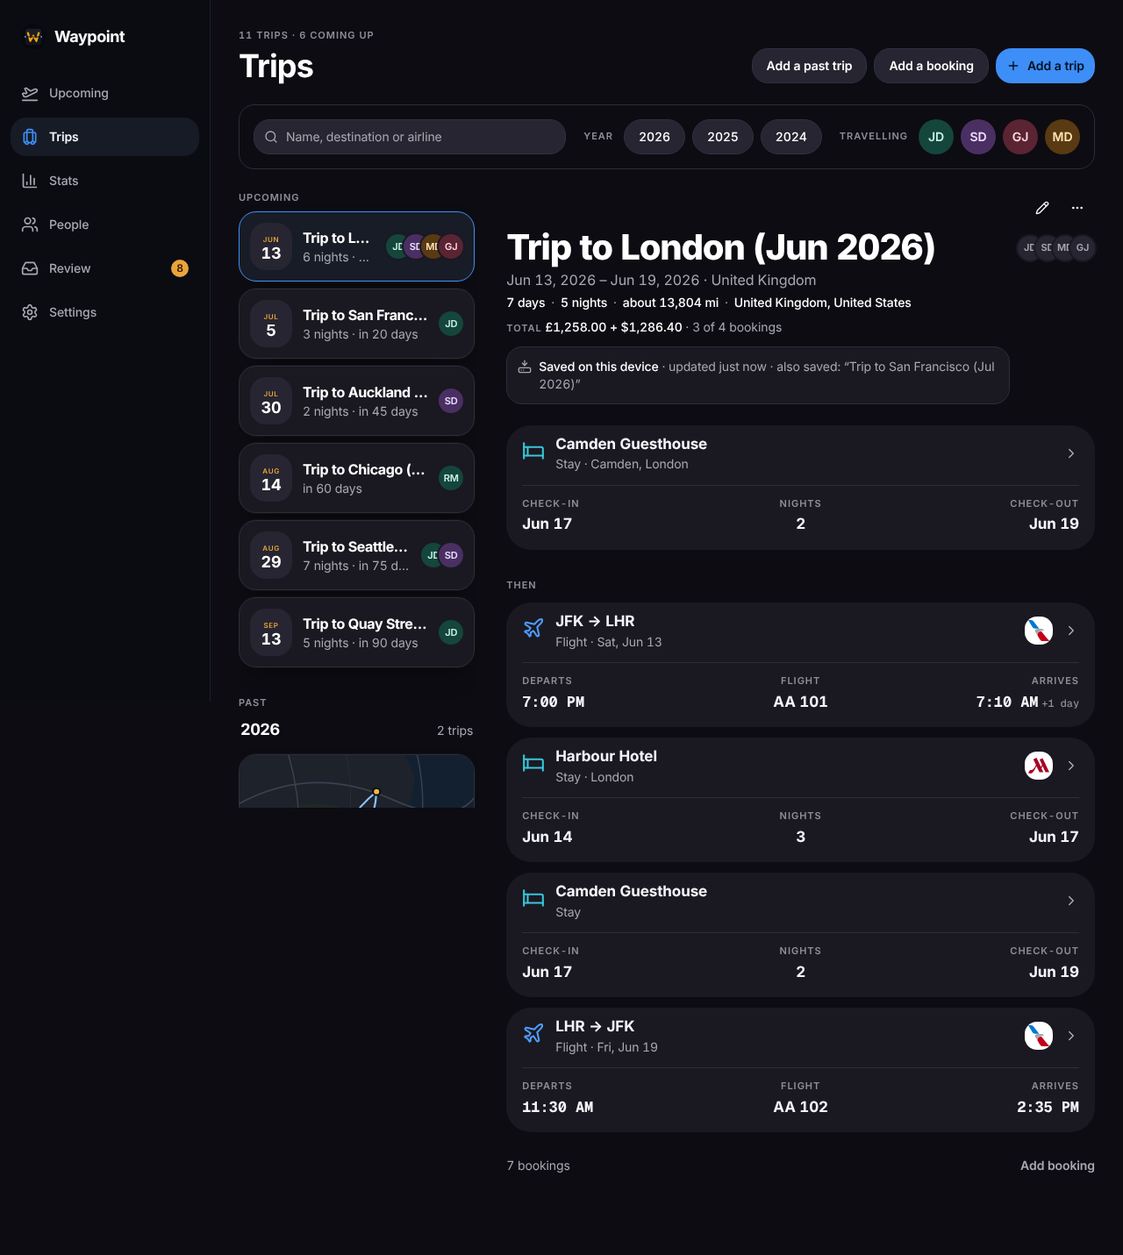
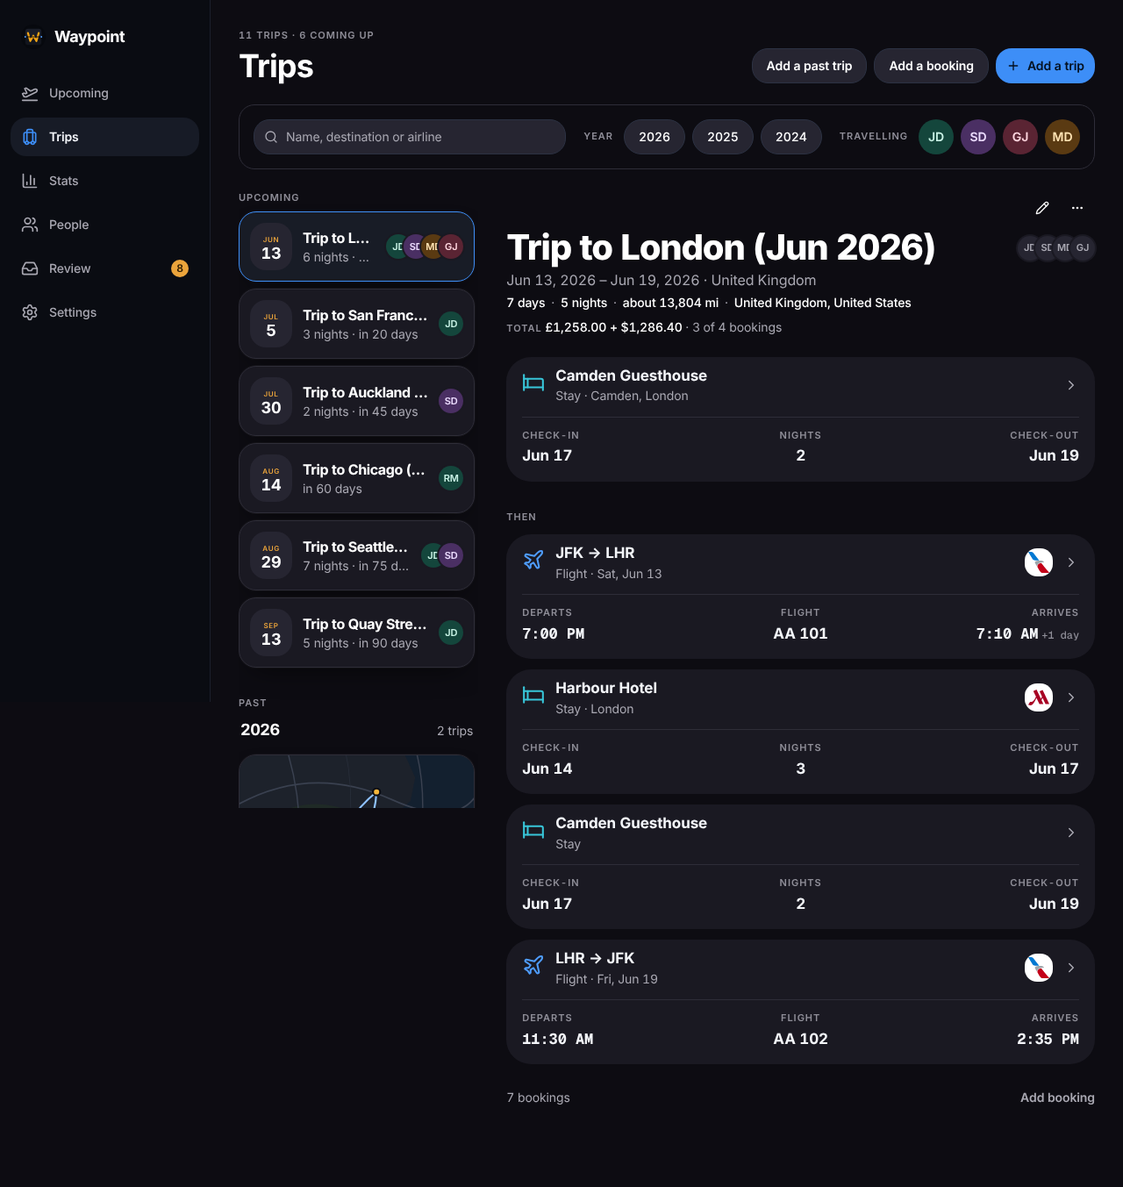
Remove the offline status card from Upcoming and trip pages (#922)

diff --git a/frontend/src/pages/Trip.offline.svelte.test.ts b/frontend/src/pages/Trip.offline.svelte.test.ts
@@ -56,7 +56,6 @@ describe("Trip: the saved offline copy", () => {
     Object.assign(offline, { checked: true, setUp: true, hasCopy: true, trips: [{ id: 9, name: "Next cruise" }] });
     render(TripPage);
     await screen.findByRole("heading", { name: "Past journey" });
-    expect(screen.queryByTestId("offline-status")).not.toBeInTheDocument();
     expect(screen.queryByRole("dialog", { name: "Keep this trip available offline" })).not.toBeInTheDocument();
     expect(device.writes).toEqual([]);
   });
@@ -94,31 +93,6 @@ describe("Trip: the saved offline copy", () => {
     expect(device.calls).toEqual(before);
     expect(screen.queryByRole("dialog")).not.toBeInTheDocument();
     expect(device.appears("Springfield")).toBe(false);
-  });
-
-  it("says in the header that this trip is saved on the device, and when", async () => {
-    await setUp();
-    render(TripPage);
-    await screen.findByRole("heading", { name: "Trip to Springfield" });
-    expect(await screen.findByText(/updated just now/)).toBeInTheDocument();
-    expect(screen.getByTestId("offline-status-line")).toHaveTextContent("Saved on this device · updated just now");
-  });
-
-  it("says in the header when the save failed", async () => {
-    await setUp();
-    vi.spyOn(console, "error").mockImplementation(() => {});
-    vi.mocked(api).mockImplementation(async (path) => {
-      if (path === "/api/people") return { people: [] };
-      if (path === "/api/loyalty") return { loyalty: [], programs: {} };
-    if (path === "/api/distance-unit") return { distance_unit: "mi" };
-    if (String(path).endsWith("/summary")) throw new Error("no summary");
-      if (path === "/api/offline") throw new Error("Server error");
-      return held;
-    });
-    render(TripPage);
-    await screen.findByRole("heading", { name: "Trip to Springfield" });
-    expect(await screen.findByText("Couldn’t save the trips on this device.")).toBeInTheDocument();
-    expect(screen.getByRole("button", { name: "Try again" })).toBeInTheDocument();
   });
 
   it("neither asks nor saves on a device that can't do it", async () => {
@@ -206,20 +180,6 @@ describe("Trip: the saved offline copy", () => {
     expect(screen.queryByText("QX7R2M")).not.toBeInTheDocument();
   });
 
-  it("shows which trips are saved, in the header, when several are", async () => {
-    await setUp();
-    vi.mocked(api).mockImplementation(async (path) => {
-      if (path === "/api/people") return { people: [] };
-      if (path === "/api/loyalty") return { loyalty: [], programs: {} };
-    if (path === "/api/distance-unit") return { distance_unit: "mi" };
-    if (String(path).endsWith("/summary")) throw new Error("no summary");
-      if (path === "/api/offline") return { trips: [{ trip: held, messages: [] }, { trip: { ...held, id: 2, name: "Trip to Paris" }, messages: [] }] };
-      return held;
-    });
-    render(TripPage);
-    await screen.findByRole("heading", { name: "Trip to Springfield" });
-    expect(await screen.findByText(/also saved: “Trip to Paris”/)).toBeInTheDocument();
-  });
 });
 
 describe("Trip: a warm iPhone app that lost its connection", () => {
@@ -236,7 +196,7 @@ describe("Trip: a warm iPhone app that lost its connection", () => {
     arrival.target = { segmentId: 5, tripId: 1, at: Date.now() };
     vi.mocked(api).mockRejectedValue(new TypeError("Failed to fetch"));
     render(TripPage);
-    expect(await screen.findByTestId("offline-banner")).toBeInTheDocument();
+    expect(await screen.findByRole("heading", { name: "Trip to Denver" })).toBeInTheDocument();
     expect(screen.queryByText("Failed to fetch")).not.toBeInTheDocument();
     expect(await screen.findByRole("dialog", { name: "QR code" })).toBeInTheDocument();
     expect(arrival.target).toBeNull();
@@ -257,30 +217,30 @@ describe("Trip: a warm iPhone app that lost its connection", () => {
 
     it("clears it at the deadline, without any other event", async () => {
       open();
-      expect(await screen.findByTestId("offline-banner")).toBeInTheDocument();
+      expect(await screen.findByRole("heading", { name: "Trip to Denver" })).toBeInTheDocument();
       expect(screen.getByRole("heading", { name: "Trip to Denver" })).toBeInTheDocument();
       await vi.advanceTimersByTimeAsync(deadline - Date.now() + 1);
-      await vi.waitFor(() => expect(screen.queryByTestId("offline-banner")).not.toBeInTheDocument());
+      await vi.waitFor(() => expect(screen.queryByRole("heading", { name: "Trip to Denver" })).not.toBeInTheDocument());
       expect(screen.queryByRole("heading", { name: "Trip to Denver" })).not.toBeInTheDocument();
       expect(await screen.findByText("Failed to fetch")).toBeInTheDocument();
     });
 
     it("clears it when the app comes back to the front after the deadline", async () => {
       open();
-      expect(await screen.findByTestId("offline-banner")).toBeInTheDocument();
+      expect(await screen.findByRole("heading", { name: "Trip to Denver" })).toBeInTheDocument();
       vi.setSystemTime(deadline + 60_000);
       document.dispatchEvent(new Event("visibilitychange"));
-      await vi.waitFor(() => expect(screen.queryByTestId("offline-banner")).not.toBeInTheDocument());
+      await vi.waitFor(() => expect(screen.queryByRole("heading", { name: "Trip to Denver" })).not.toBeInTheDocument());
       expect(screen.queryByRole("heading", { name: "Trip to Denver" })).not.toBeInTheDocument();
     });
 
     it("keeps it while it is still within its retention", async () => {
       open();
-      expect(await screen.findByTestId("offline-banner")).toBeInTheDocument();
+      expect(await screen.findByRole("heading", { name: "Trip to Denver" })).toBeInTheDocument();
       vi.setSystemTime(deadline - 60_000);
       window.dispatchEvent(new Event("focus"));
       await vi.advanceTimersByTimeAsync(1_000);
-      expect(screen.getByTestId("offline-banner")).toBeInTheDocument();
+      expect(screen.getByRole("heading", { name: "Trip to Denver" })).toBeInTheDocument();
     });
 
     it("does not show a copy the phone handed over after its deadline", async () => {
@@ -290,7 +250,7 @@ describe("Trip: a warm iPhone app that lost its connection", () => {
       vi.mocked(api).mockRejectedValue(new TypeError("Failed to fetch"));
       render(TripPage);
       expect(await screen.findByText("Failed to fetch")).toBeInTheDocument();
-      expect(screen.queryByTestId("offline-banner")).not.toBeInTheDocument();
+      expect(screen.queryByRole("heading", { name: "Trip to Denver" })).not.toBeInTheDocument();
     });
   });
 

diff --git a/frontend/src/pages/Upcoming.svelte b/frontend/src/pages/Upcoming.svelte
@@ -21,14 +21,13 @@
   import { flightCardView, flightsToday, nextFlightShown } from "$lib/flightcard";
   import { isMobile } from "$lib/platform";
   import { flightStatus, loadFlightStatus, statusFor, followFlightStatus } from "$lib/flightstatus.svelte";
-  import OfflineStatus from "$lib/components/OfflineStatus.svelte";
+  import OfflinePill from "$lib/components/OfflinePill.svelte";
   import PassCard from "$lib/components/PassCard.svelte";
   import { dateTile, laterLine, laterTrips, startsIn } from "$lib/side-column";
   import { showsCode } from "$lib/gate-code";
   import RowShowCode from "$lib/components/RowShowCode.svelte";
   import { type Day, type DayItem, appWord, bookingCards, tripTravellers, vendorLink, dayIn, dayLabel, END_WORD, START_WORD, endAt, featuredTrip, flightEvidence, headline, nextUp, nightsLabel, rangeLabel, startAt, subline, timesDiffer, todayLabel, tripDays, untimed, upcomingTitle, viewerZone } from "$lib/trips";
   import KindTile from "$lib/components/KindTile.svelte";
-  import { offlineWorking } from "$lib/offline.svelte";
   import { viewport } from "$lib/phone.svelte";
   import { ConfirmDialog } from "$lib/components/ui/confirm-dialog";
   import { Sheet } from "$lib/components/ui/sheet";
@@ -44,7 +43,6 @@
   let asking = $state(false);
   let mail = $state<MailboxList | null>(null);
   let connecting = $state(false);
-  let offlineOpen = $state(false);
   let detail = $state<{ segment: Segment; bookings: Segment[] } | null>(null);
   let heroDetailOpen = $state(false);
   let heroOpener: HTMLElement | null = null;
@@ -234,7 +232,7 @@
   </div>
   {#if trips && trips.length > 0}
     <div class="flex shrink-0 items-center gap-2">
-      <OfflineStatus pill open={offlineOpen} ontoggle={() => (offlineOpen = !offlineOpen)} />
+      <OfflinePill />
       <Button href="#trips?add=booking" variant="secondary" class="phone:size-11 phone:p-0"><Plus aria-hidden="true" /><span class="phone:sr-only">Add a booking</span></Button>
     </div>
   {/if}
@@ -301,7 +299,6 @@
   <div class="@container">
   <div class={`grid gap-x-8 gap-y-2 ${homeFlight ? "@[900px]:grid-cols-2 @[900px]:items-start" : ""}`} data-columns={homeFlight ? "two" : "one"}>
   <div class="min-w-0">
-  {#if !offlineWorking() || offlineOpen}<div class="-mt-1 mb-6"><OfflineStatus /></div>{/if}
   {#if next}
     {@const s = next.segment}
     {@const proof = s.kind === "flight" && flightStatus.list?.enabled ? flightEvidence(statusFor(s.id), now, typeof navigator === "undefined" || navigator.onLine !== false) : "scheduled"}

diff --git a/frontend/src/lib/components/OfflinePill.svelte.test.ts b/frontend/src/lib/components/OfflinePill.svelte.test.ts
@@ -1,0 +1,39 @@
+// @vitest-environment jsdom
+import { render, screen } from "@testing-library/svelte";
+import { beforeEach, describe, expect, it, vi } from "vitest";
+
+vi.mock("$lib/offline.svelte", async (importOriginal) => ({ ...(await importOriginal<typeof import("$lib/offline.svelte")>()), refreshOffline: vi.fn() }));
+
+import { offline, refreshOffline } from "$lib/offline.svelte";
+import OfflinePill from "./OfflinePill.svelte";
+
+const working = { checked: true, setUp: true, hasCopy: true, savedAt: Date.now(), off: false, damaged: false, supported: true, reason: "", declined: false, failed: false, syncing: false, oldApp: false, trips: [{ id: 7, name: "Trip to Springfield" }] };
+beforeEach(() => { Object.assign(offline, working); vi.mocked(refreshOffline).mockReset(); });
+
+describe("OfflinePill", () => {
+  it("shows Saved for offline, linking to the offline settings, while saving is working", () => {
+    render(OfflinePill);
+    expect(screen.getByRole("link", { name: "Saved for offline" })).toHaveAttribute("href", "#settings/offline");
+    expect(refreshOffline).not.toHaveBeenCalled();
+  });
+
+  it.each([
+    ["offline saving is off", { off: true }],
+    ["the last save failed", { failed: true }],
+    ["the saved copy can't be read", { damaged: true }],
+    ["offline access isn't set up", { setUp: false }],
+    ["nothing is saved", { hasCopy: false, savedAt: null }],
+    ["the device can't save", { supported: false }],
+  ])("shows nothing when %s", (_why, state) => {
+    Object.assign(offline, state);
+    render(OfflinePill);
+    expect(screen.queryByTestId("offline-pill")).not.toBeInTheDocument();
+  });
+
+  it("checks the device once on its own when nothing has checked yet, so the pill can appear", () => {
+    offline.checked = false;
+    render(OfflinePill);
+    expect(refreshOffline).toHaveBeenCalledTimes(1);
+    expect(screen.queryByTestId("offline-pill")).not.toBeInTheDocument();
+  });
+});

diff --git a/frontend/src/pages/Upcoming.svelte.test.ts b/frontend/src/pages/Upcoming.svelte.test.ts
@@ -839,20 +839,18 @@ describe("Upcoming header, review banner and timeline", () => {
     expect(screen.getByText("Dec 30, 2026 – Jan 2, 2027 · 3 nights")).toBeInTheDocument();
   });
 
-  it("shows the Saved for offline pill only when offline saving is working", async () => {
+  it("shows the Saved for offline pill, linking to the offline settings, only when offline saving is working", async () => {
     Object.assign(offline, { setUp: true, hasCopy: true, savedAt: Date.now(), trips: [{ id: 1, name: "Trip" }] });
     serve([london]);
     const { unmount } = render(Upcoming);
-    const pill = await screen.findByRole("button", { name: "Saved for offline" });
-    expect(screen.queryByTestId("offline-status")).toBeNull();
-    await userEvent.setup({ advanceTimers: vi.advanceTimersByTime }).click(pill);
-    expect(screen.getByTestId("offline-status")).toBeInTheDocument();
+    expect(await screen.findByRole("link", { name: "Saved for offline" })).toHaveAttribute("href", "#settings/offline");
+    expect(screen.queryByText(/Saved on this device/)).toBeNull();
     unmount();
     Object.assign(offline, { failed: true });
     render(Upcoming);
     await screen.findByRole("heading", { name: "JFK → LHR" });
-    expect(screen.queryByRole("button", { name: "Saved for offline" })).toBeNull();
-    expect(screen.getByTestId("offline-status")).toBeInTheDocument();
+    expect(screen.queryByRole("link", { name: "Saved for offline" })).toBeNull();
+    expect(screen.queryByText(/Couldn’t save the trips on this device/)).toBeNull();
   });
 });
 

diff --git a/frontend/src/lib/components/OfflineTrip.svelte b/frontend/src/lib/components/OfflineTrip.svelte
@@ -9,9 +9,8 @@
   import PlaceTime from "$lib/components/PlaceTime.svelte";
   import { Button } from "$lib/components/ui/button";
   import { countNote, formatMoney, formatTotals } from "$lib/money";
-  import { ago, type SavedCopy } from "$lib/offline";
+  import type { SavedCopy } from "$lib/offline";
   import { bookingCards, dateLabel, dayLabel, headline, showBookingTravellers, showTripTravellers, tripTravellers } from "$lib/trips";
-  import WifiOff from "@lucide/svelte/icons/wifi-off";
 
   let { copy }: { copy: SavedCopy } = $props();
 
@@ -31,14 +30,6 @@
   const emailsOf = (s: Segment) => copy.messages.find((m) => m.segment_id === s.id)?.emails ?? [];
   const kindName = (s: Segment) => ({ flight: "Flight", hotel: "Hotel", car: "Car", train: "Train", cruise: "Cruise", parking: "Parking", visit: "Past trip" })[s.kind];
 </script>
-
-<div class="mb-4 flex items-start gap-3 rounded-2xl border border-border bg-card p-4 text-sm" role="status" data-testid="offline-banner">
-  <WifiOff class="mt-0.5 size-4 shrink-0 text-muted-foreground" aria-hidden="true" />
-  <div class="min-w-0">
-    <p class="font-medium">Offline. Saved {ago(copy.savedAt, now)}.</p>
-    <p class="text-muted-foreground">This is the copy saved on this device. Editing and adding need a connection.</p>
-  </div>
-</div>
 
 <ArrivalOpen tripId={trip.id} segments={trip.segments} {now} />
 

diff --git a/frontend/src/pages/Trip.svelte b/frontend/src/pages/Trip.svelte
@@ -29,7 +29,6 @@
   import LoyaltyNumber from "$lib/components/LoyaltyNumber.svelte";
   import MessageView from "$lib/components/MessageView.svelte";
   import OfflineSetup from "$lib/components/OfflineSetup.svelte";
-  import OfflineStatus from "$lib/components/OfflineStatus.svelte";
   import PastTrip from "$lib/components/PastTrip.svelte";
   import SavedTripLock from "$lib/components/SavedTripLock.svelte";
   import PlaceTime from "$lib/components/PlaceTime.svelte";
@@ -423,7 +422,6 @@
       {#if countNote(t.costs)}<span class="text-muted-foreground"> · {countNote(t.costs)}</span>{/if}</p>
   {/if}
   {#if t.notes && !editingTrip}<p class="mt-2 whitespace-pre-line break-words text-sm">{t.notes}</p>{/if}
-  {#if !over}<OfflineStatus tripId={t.id} />{/if}
 
   {#if form && form.id === null}
     <div class="mt-6" use:revealForm><SegmentForm initial={form} {people} {focus} oncancel={() => (form = null)} onsaved={saved} /></div>

diff --git a/frontend/src/App.offline.svelte.test.ts b/frontend/src/App.offline.svelte.test.ts
@@ -66,13 +66,11 @@ describe("opening the app with no connection", () => {
     expect(screen.queryByText("QX7R2M")).not.toBeInTheDocument();
   });
 
-  it("then shows the saved trip, read-only, under the offline banner", async () => {
+  it("then shows the saved trip, read-only", async () => {
     await saveCopy();
     render(App);
     await userEvent.setup().click(await screen.findByRole("button", { name: "Unlock" }));
     expect(await screen.findByRole("heading", { name: "Trip to London" })).toBeInTheDocument();
-    expect(screen.getByTestId("offline-banner")).toHaveTextContent("Offline. Saved 2 h ago.");
-    expect(screen.getByTestId("offline-banner")).toHaveTextContent("Editing and adding need a connection");
     expect(screen.getAllByText("QX7R2M").length).toBeGreaterThan(0);
     expect(screen.getByText("H77231")).toBeInTheDocument();
     expect(screen.getByText(/14C/)).toBeInTheDocument();

diff --git a/frontend/src/lib/components/OfflinePill.svelte b/frontend/src/lib/components/OfflinePill.svelte
@@ -1,0 +1,16 @@
+<script lang="ts">
+  import { offline, offlineWorking, refreshOffline } from "$lib/offline.svelte";
+  import CloudCheck from "@lucide/svelte/icons/cloud-check";
+  import { onMount } from "svelte";
+
+  onMount(() => {
+    if (!offline.checked) void refreshOffline();
+  });
+</script>
+
+{#if offlineWorking()}
+  <a href="#settings/offline" class="inline-flex min-h-11 cursor-pointer items-center gap-2 rounded-full border border-status-ok-ink/30 bg-status-ok-soft px-3.5 text-sm font-medium text-status-ok-ink outline-none transition-colors hover:bg-status-ok-soft/70 focus-visible:ring-[3px] focus-visible:ring-ring/50 phone:size-11 phone:justify-center phone:px-0"
+    data-testid="offline-pill">
+    <CloudCheck class="size-4 shrink-0" aria-hidden="true" /><span class="phone:sr-only">Saved for offline</span>
+  </a>
+{/if}

diff --git a/frontend/src/App.offline-shell.svelte.test.ts b/frontend/src/App.offline-shell.svelte.test.ts
@@ -166,7 +166,6 @@ describe("an arrival with no connection, on the cached page", () => {
     await userEvent.setup({ pointerEventsCheck: 0 }).click(screen.getByRole("button", { name: "Show pickup" }));
     expect(await screen.findByRole("dialog", { name: "Pickup" })).toBeInTheDocument();
     expect(location.hash).toBe("#trip/1");
-    expect(screen.getByTestId("offline-banner")).toBeInTheDocument();
     await userEvent.setup({ pointerEventsCheck: 0 }).click(screen.getByRole("button", { name: "Close" }));
     expect(screen.queryByRole("dialog")).toBeNull();
     expect(screen.getByRole("heading", { name: "Trip to Denver" })).toBeInTheDocument();

diff --git a/frontend/src/lib/offline.ts b/frontend/src/lib/offline.ts
@@ -126,4 +126,3 @@ export function savedList(trips: { name: string }[]): string {
 }
 
 export const WHEN_SAVED = "Your trips under way or starting within a week, and your next upcoming trip, are saved when you open Waypoint online.";
-export const ONLY_THESE = "Only trips under way or starting within a week, and your next upcoming trip, are saved.";

diff --git a/docs/src/content/docs/start/offline.md b/docs/src/content/docs/start/offline.md
@@ -27,7 +27,7 @@ To open with no connection, the app also keeps a copy of your server’s public 
 
 ### With no connection, in the app
 
-When the app is already showing Waypoint’s pages and then can’t reach your server (no connection, airplane mode, no signal or data, a DNS failure, a timeout or a dropped connection) and a trip and the app files are saved, it shows the saved copy instead of an error. There is nothing to unlock. Under a banner with the age of the copy, every saved trip opens as in a browser: editing and adding are off, every other page says it needs a connection, and live flight status is not shown. While it shows the copy, the app checks whether your server answers again (at most every 5 seconds, when the page tries to reach it, and so when you choose **Try again**) and goes back to the live pages as soon as it does. A certificate error or an error answered by the server never shows the saved copy, and with no trip saved nothing is served from the phone at all. Starting the app with no connection is different today: on a server that needs sign-in, the app first asks the server for its web session, and when that fails it shows an error and not the saved trips. That works only when the app is already running, or when that step can finish. On a Waypoint with no sign-in of its own there is no such step. This is tracked in #786. The no-connection copy has been tried against a server that can’t be reached, in the app’s tests, and not yet in airplane mode on a phone, and an airplane-mode launch is not promised.
+When the app is already showing Waypoint’s pages and then can’t reach your server (no connection, airplane mode, no signal or data, a DNS failure, a timeout or a dropped connection) and a trip and the app files are saved, it shows the saved copy instead of an error. There is nothing to unlock. Every saved trip opens as in a browser: editing and adding are off, every other page says it needs a connection, and live flight status is not shown. While it shows the copy, the app checks whether your server answers again (at most every 5 seconds, when the page tries to reach it, and so when you choose **Try again**) and goes back to the live pages as soon as it does. A certificate error or an error answered by the server never shows the saved copy, and with no trip saved nothing is served from the phone at all. Starting the app with no connection is different today: on a server that needs sign-in, the app first asks the server for its web session, and when that fails it shows an error and not the saved trips. That works only when the app is already running, or when that step can finish. On a Waypoint with no sign-in of its own there is no such step. This is tracked in #786. The no-connection copy has been tried against a server that can’t be reached, in the app’s tests, and not yet in airplane mode on a phone, and an airplane-mode launch is not promised.
 
 ### Starting with no connection
 
@@ -63,11 +63,11 @@ The [iPhone app](/Waypoint/start/ios/) reads the route with its own sign-in toke
 
 ## Checking before you travel
 
-Upcoming and each trip’s page show an **Offline access** panel. A green **Saved for offline** pill means saving is set up and working; the other states say what is missing, such as **This trip isn’t saved on this device** or **Couldn’t save the trips on this device**, with **Try again** in a browser. In the iPhone app a failed save has no button: saving is tried again each time you open Waypoint online.
+Upcoming shows a green **Saved for offline** button at the top right while saving is set up and working on this device; it opens **Settings → Offline & notifications**, which says what is saved and when, whether saving is on, and what is missing when it isn’t. Neither Upcoming nor a trip’s page shows a status card. In the iPhone app a failed save has no button: saving is tried again each time you open Waypoint online.
 
 ## Using it with no connection, in a browser
 
-Open Waypoint offline and it shows **Saved trip is locked**. Unlock it once, with the device’s check, and every saved trip opens, read-only, under a banner with the age of the copy.
+Open Waypoint offline and it shows **Saved trip is locked**. Unlock it once, with the device’s check, and every saved trip opens, read-only.
 
 - Editing and adding are off, and every other page says it needs a connection.
 - Live flight status is not shown; the check-in countdown and the plane on the route line keep working from the booked times and the device’s clock.

diff --git a/docs/src/content/docs/contributing/design.md b/docs/src/content/docs/contributing/design.md
@@ -173,7 +173,8 @@ The labels keep their contrast over bright content too (an expanded email previe
   - The review line is one link of at least 44px, with an amber dot, the count in the muted text colour and a chevron, shown only when `review_count` is above zero; it carries the count and nothing of any email.
   - A day is a small uppercase label over its rows. The first day with a booking that is not cancelled and still has something to come, at the times of its places, carries a blue dot and “Next”; a day whose bookings are all over or cancelled never does. A row is the time in bold tabular figures, the booking’s brand logo (or its outline `KindTile` when it has none), the title and a grey line, at least 44px, with a hairline under it, and opens what it opened before. A parking booking whose gate code is ready (`showsCode` in `frontend/src/lib/gate-code.ts`) shows a blue “Show code”, `RowShowCode.svelte`, in place of the chevron.
   - The small date on each Later trip, on the phone tiles and in the desktop list, is amber (`text-signal`): the owner chose to keep it, although amber elsewhere means changed or needing attention.
-  - Not drawn in the designs and kept as they were, on the new tokens: the hero when the next booking is not a flight, Also under way, the arrival card and the offline status.
+  - Not drawn in the designs and kept as they were, on the new tokens: the hero when the next booking is not a flight, Also under way, and the arrival card.
+  - The offline status card is gone from this page and from the trip page (owner decision, #921, 2026-11-21, by direct request, with no mockup). The green **Saved for offline** button at the right of the header stays as it was, shown only while saving works, and now links to Settings → Offline & notifications (`OfflinePill`), where saving is set up, switched off and checked.
 - **Review: the form.** The add-by-hand and check-suggestion form, with the email, opens in the sheet at every width.
   - It takes `wide` (a side sheet of up to 40rem), `split` (from 1100px, `SPLIT_QUERY` in `phone.svelte.ts`, up to 72rem with the email beside the form) and `onOpenAutoFocus` to choose where focus lands.
   - Closing a changed form asks “Discard changes?” first.
